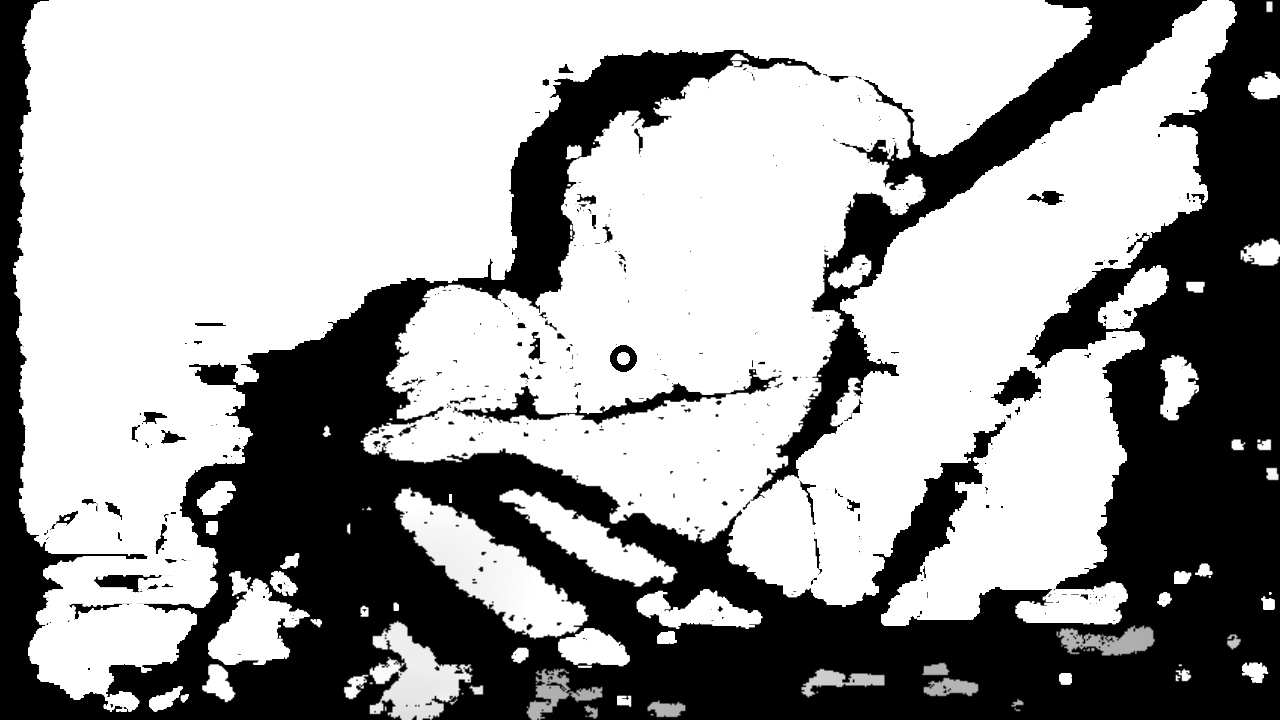
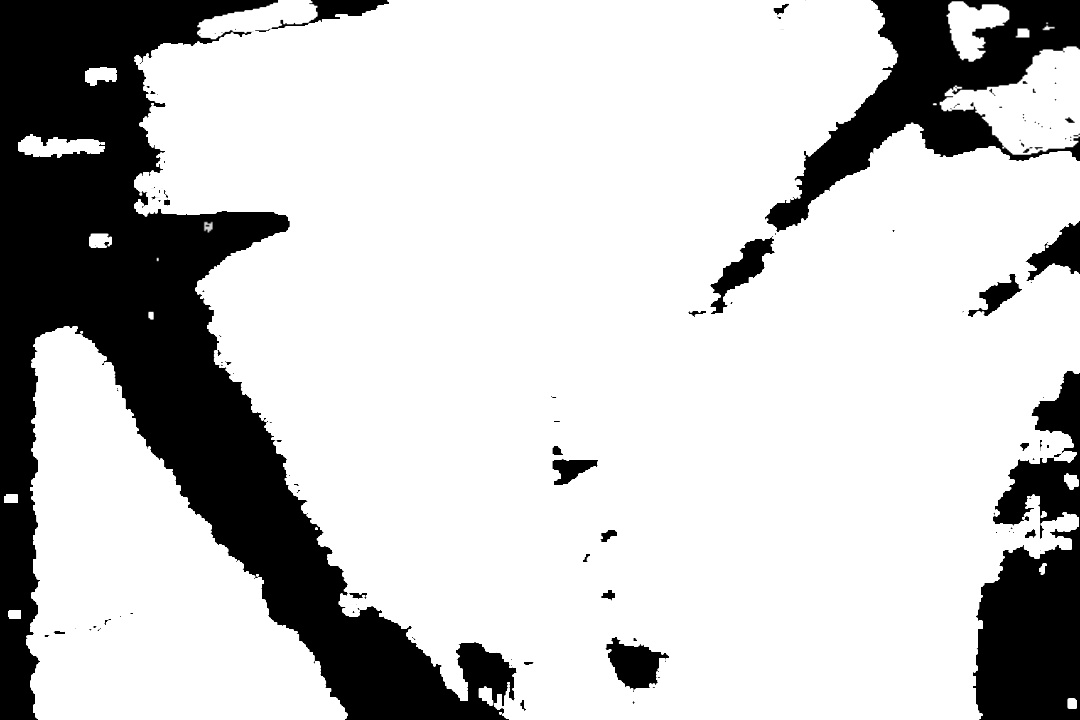
changed file names and added differenct configurations

diff --git a/src/image_controller2.py b/src/image_controller2.py
@@ -1,0 +1,128 @@
+#!/usr/bin/python
+import cv2
+import sys
+from PIL import Image as im 
+import numpy as np
+import rospy
+from sensor_msgs.msg import Image
+from std_msgs.msg import String
+from rico_human_detection.msg import Coordinates, Results
+from cv_bridge import CvBridge, CvBridgeError
+from rico_human_detection.srv import detect, detectResponse
+import time
+import rospkg
+import os
+
+import pyrealsense2 as rs
+class ImageConverter:
+    def __init__(self):
+        self.coordinates_pub = rospy.Publisher("/coordinates", Coordinates, queue_size=1)
+        self.x = None
+        self.y = None
+        self.name = None
+        self.confidence = None
+        self.flag = None
+        self.bridge = CvBridge()
+
+        package_path = rospkg.RosPack().get_path('rico_human_detection')
+        self.path = os.path.join(package_path, 'include', 'rico_human_detection', 'camera.jpg')
+
+        # Camera setup
+        self.pipeline = rs.pipeline()
+        self.config = rs.config()
+        self.config.enable_stream(rs.stream.depth, 640, 480, rs.format.z16, 30)
+        self.config.enable_stream(rs.stream.color, 640, 480, rs.format.bgr8, 30)
+
+        try:
+            self.pipeline.start(self.config)
+            time.sleep(2)  # Let camera warm up
+            self.running = True
+            rospy.loginfo("RealSense pipeline started successfully.")
+        except Exception as e:
+            rospy.logerr("Failed to start RealSense pipeline: %s", e)
+            raise
+
+    def shutdown(self):
+        if self.running:
+            rospy.loginfo("Stopping RealSense pipeline...")
+            self.pipeline.stop()
+            self.running = False
+
+    def capture_frames(self):
+        try:
+            frames = self.pipeline.wait_for_frames()
+            rgb = frames.get_color_frame()
+            depth = frames.get_depth_frame()
+            rgb_timestamp = rgb.get_timestamp()
+            depth_timestamp = depth.get_timestamp()
+
+            rgb_array = np.asanyarray(rgb.get_data())
+            depth_array = np.asanyarray(depth.get_data())
+
+            cv2.imwrite(self.path, rgb_array)
+            if not rgb or not depth:
+                rospy.logwarn("Incomplete frames received.")
+                return None, None
+            return rgb_array, rgb_timestamp, depth_array, depth_timestamp
+        except Exception as e:
+            rospy.logerr("Frame capture failed: %s", e)
+            return None, None
+
+    def create_message(self, depth_image, flag):
+        msg = Coordinates()
+        msg.x = self.x
+        msg.y = self.y
+        msg.depth_image = depth_image
+        msg.flag = flag
+        return msg
+    
+    def create_response(self, response):
+        self.x = response.x
+        self.y = response.y
+        self.name = response.name
+        self.confidence = response.prob
+        self.flag = response.flag
+
+    def process_frame(self, rgb_image, depth_image):
+        rospy.wait_for_service("detect")
+        try:
+            detect_human = rospy.ServiceProxy("detect",detect)
+            response = detect_human()
+            self.create_response(response)
+            if response.flag:
+                msg = self.create_message(self.bridge.cv2_to_imgmsg(depth_image, encoding="16UC1"), True)
+                #send coordinates to depth node so to read the distance
+                self.coordinates_pub.publish(msg)
+                rospy.loginfo("Human detected")
+            else:
+                msg = self.create_message(self.bridge.cv2_to_imgmsg(depth_image, encoding="16UC1"), False)
+                #send coordinates to depth node so to read the distance
+                self.coordinates_pub.publish(msg)
+                rospy.loginfo("No detection")
+        except rospy.ServiceException as e:
+            print("Service call failed")
+
+        
+def main(args):
+    rospy.init_node('image_converter', anonymous=True)
+    rospy.loginfo("View image node created")
+    ic = ImageConverter()
+    rospy.on_shutdown(ic.shutdown)
+
+    rate = rospy.Rate(60)
+    while not rospy.is_shutdown():
+        start = time.time()
+        rgb_image, rgb_timestamp, depth_image, depth_timestamp = ic.capture_frames()
+        stop = time.time()
+        print("LATENCY: ", (stop - start)*1000, "ms")
+        sync_diff = abs(rgb_timestamp - depth_timestamp)*1000
+        print("SYNC DIFF: ", sync_diff, "ms")
+        if rgb_image is not None and depth_image is not None:
+            # rospy.loginfo("Captured frame!")
+            ic.process_frame(rgb_image, depth_image)
+        rate.sleep()
+        # stop = time.time()
+        # print("TIME OF ITERATION: ", stop - start, "s")
+
+if __name__ == '__main__':
+    main(sys.argv)

diff --git a/src/image_controller3.py b/src/image_controller3.py
@@ -1,0 +1,107 @@
+#!/usr/bin/python
+import cv2
+import sys
+from PIL import Image as im 
+import numpy as np
+import rospy
+from sensor_msgs.msg import Image
+from std_msgs.msg import String
+from rico_human_detection.msg import Coordinates, Results
+from cv_bridge import CvBridge, CvBridgeError
+from rico_human_detection.srv import detect, detectResponse
+from message_filters import Subscriber, ApproximateTimeSynchronizer
+import time
+import rospkg
+import os
+
+class ImageConverter:
+    def __init__(self):
+        self.coordinates_pub = rospy.Publisher("/coordinates", Coordinates, queue_size=1)
+        self.x = None
+        self.y = None
+        self.name = None
+        self.confidence = None
+        self.flag = None
+        self.bridge = CvBridge()
+
+        package_path = rospkg.RosPack().get_path('rico_human_detection')
+        self.path = os.path.join(package_path, 'include', 'rico_human_detection', 'camera.jpg')
+
+        rgb_sub = Subscriber("/camera/color/image_raw", Image)
+        depth_sub = Subscriber("/camera/depth/image_rect_raw", Image)
+        ts = ApproximateTimeSynchronizer([rgb_sub, depth_sub], queue_size=1, slop=0.05)
+        ts.registerCallback(self.process_frame)
+
+    def create_message(self, depth_image, flag):
+        msg = Coordinates()
+        msg.x = self.x
+        msg.y = self.y
+        msg.depth_image = depth_image
+        msg.flag = flag
+        return msg
+    
+    def create_response(self, response):
+        self.x = response.x
+        self.y = response.y
+        self.name = response.name
+        self.confidence = response.prob
+        self.flag = response.flag
+
+    def process_frame(self, rgb_image, depth_image):
+
+        now = rospy.Time.now().to_sec()
+        rgb_stamp = rgb_image.header.stamp.to_sec()
+        depth_stamp = depth_image.header.stamp.to_sec()
+
+        #obliczanie latencji
+        rgb_latency = (now - rgb_stamp)
+        depth_latency = (now - depth_stamp)
+        print("RGB latency: ", rgb_latency*1000, "ms", "Depth latency: ",  depth_latency*1000, "ms")
+
+        #obliczanie sync
+        time_diff = abs(rgb_stamp - depth_stamp)*1000
+        print("Diff between frames: ", time_diff, "ms")
+
+        try:
+            cv_image = self.bridge.imgmsg_to_cv2(rgb_image, desired_encoding="passthrough")
+            cv_image = cv2.resize(cv_image, (1080, 720))
+        except CvBridgeError as e:
+            rospy.loginfo("There was an error converting ros message to image!")
+        cv2.imwrite(self.path, cv_image)
+
+        #call detection service and get response
+        # rospy.loginfo("Waiting for service!")
+        rospy.wait_for_service("detect")
+        # rospy.loginfo("Wait is finally over!")
+        try:
+            detect_human = rospy.ServiceProxy("detect",detect)
+            response = detect_human()
+            self.create_response(response)
+            if response.flag:
+                msg = self.create_message(depth_image, True)
+                #send coordinates to depth node so to read the distance
+                self.coordinates_pub.publish(msg)
+                # rospy.loginfo("Human detected")
+            else:
+                msg = self.create_message(depth_image, False)
+                #send coordinates to depth node so to read the distance
+                self.coordinates_pub.publish(msg)
+                # rospy.loginfo("No detection")
+        except rospy.ServiceException as e:
+            print("Service call failed")
+
+        
+def main(args):
+    rospy.init_node('image_converter', anonymous=True)
+    rospy.loginfo("View image node created")
+    ic = ImageConverter()
+    try:
+        # rospy.spin()
+        rate = rospy.Rate(10)
+        while not rospy.is_shutdown():
+            rate.sleep()
+    except KeyboardInterrupt:
+        print("Shutting down!")
+
+if __name__ == '__main__':
+    main(sys.argv)

diff --git a/src/image_controller.py b/src/image_controller.py
@@ -15,8 +15,6 @@ import os
 
 class ImageConverter:
     def __init__(self):
-        self.init_pub = rospy.Publisher("/init_pub", String, queue_size=1)
-        self.init_sub = rospy.Subscriber("/init_pub", String, self.image_callback, queue_size=1)
         self.coordinates_pub = rospy.Publisher("/coordinates", Coordinates, queue_size=1)
         self.x = None
         self.y = None
@@ -43,10 +41,7 @@ class ImageConverter:
         self.confidence = response.prob
         self.flag = response.flag
 
-    def image_callback(self, data):
-        #collect frames and save it
-        depth_image = rospy.wait_for_message("/camera/depth/image_rect_raw", Image)
-        rgb_image = rospy.wait_for_message("/camera/color/image_raw", Image)
+    def process_frame(self, rgb_image, depth_image):
 
         try:
             cv_image = self.bridge.imgmsg_to_cv2(rgb_image, desired_encoding="passthrough")
@@ -56,7 +51,9 @@ class ImageConverter:
         cv2.imwrite(self.path, cv_image)
 
         #call detection service and get response
+        # rospy.loginfo("Waiting for service!")
         rospy.wait_for_service("detect")
+        # rospy.loginfo("Wait is finally over!")
         try:
             detect_human = rospy.ServiceProxy("detect",detect)
             response = detect_human()
@@ -65,12 +62,12 @@ class ImageConverter:
                 msg = self.create_message(depth_image, True)
                 #send coordinates to depth node so to read the distance
                 self.coordinates_pub.publish(msg)
-                rospy.loginfo("Human detected")
+                # rospy.loginfo("Human detected")
             else:
                 msg = self.create_message(depth_image, False)
                 #send coordinates to depth node so to read the distance
                 self.coordinates_pub.publish(msg)
-                rospy.loginfo("No detection")
+                # rospy.loginfo("No detection")
         except rospy.ServiceException as e:
             print("Service call failed")
 
@@ -81,9 +78,30 @@ def main(args):
     ic = ImageConverter()
     try:
         # rospy.spin()
-        rate = rospy.Rate(5)
+        rate = rospy.Rate(10)
         while not rospy.is_shutdown():
-            ic.init_pub.publish("hi")
+            depth_image = rospy.wait_for_message("/camera/depth/image_rect_raw", Image)
+            rgb_image = rospy.wait_for_message("/camera/color/image_raw", Image)
+
+            rgb_stamp = rgb_image.header.stamp.to_sec()
+            depth_stamp = depth_image.header.stamp.to_sec()
+            now = rospy.Time.now().to_sec()
+
+            #obliczanie latencji
+            rgb_latency = (now - rgb_stamp)
+            depth_latency = (now - depth_stamp)
+            print("RGB latency: ", rgb_latency*1000, "ms", "Depth latency: ",  depth_latency*1000, "ms")
+
+            #obliczanie sync
+            time_diff = abs(rgb_stamp - depth_stamp)*1000
+            print("Diff between frames: ", time_diff, "ms")
+            # if time_diff < 50:
+            #     print("Frames are synchronized")
+            # else:
+            #     print("Frames are not synchronized, diff: ", time_diff, "ms")
+
+            if rgb_image is not None and depth_image is not None:
+                ic.process_frame(rgb_image, depth_image)
             rate.sleep()
 
 

diff --git a/src/calc_depth.py b/src/calc_depth.py
@@ -20,6 +20,9 @@ class DepthReader:
         # self.path = '/home/rico/Desktop/BartoszNiemiecHumanDetection/src/rico_human_detection/include/rico_human_detection/written_depth.jpg'
         self.path = os.path.join(package_path, 'include', 'rico_human_detection', 'written_depth.jpg')
 
+        self.current_depth = None
+        self.previous_depth = None
+
     def coordinates_callback(self, data):
         image = data.depth_image
         try:
@@ -30,8 +33,16 @@ class DepthReader:
             # cv2.imwrite(self.path, depth_image)
             if data.flag:
                 msg = Results()
-                msg.is_human_detected = True
+                
                 msg.distance = depth_array[data.y, data.x]/1000
+                if self.current_depth is not None:
+                    self.previous_depth = self.current_depth
+                self.current_depth = msg.distance
+
+                if self.current_depth and self.previous_depth > 1.5:
+                    msg.is_human_detected = False
+                else:
+                    msg.is_human_detected = True
                 self.results_pub.publish(msg)
             else:
                 msg = Results()
